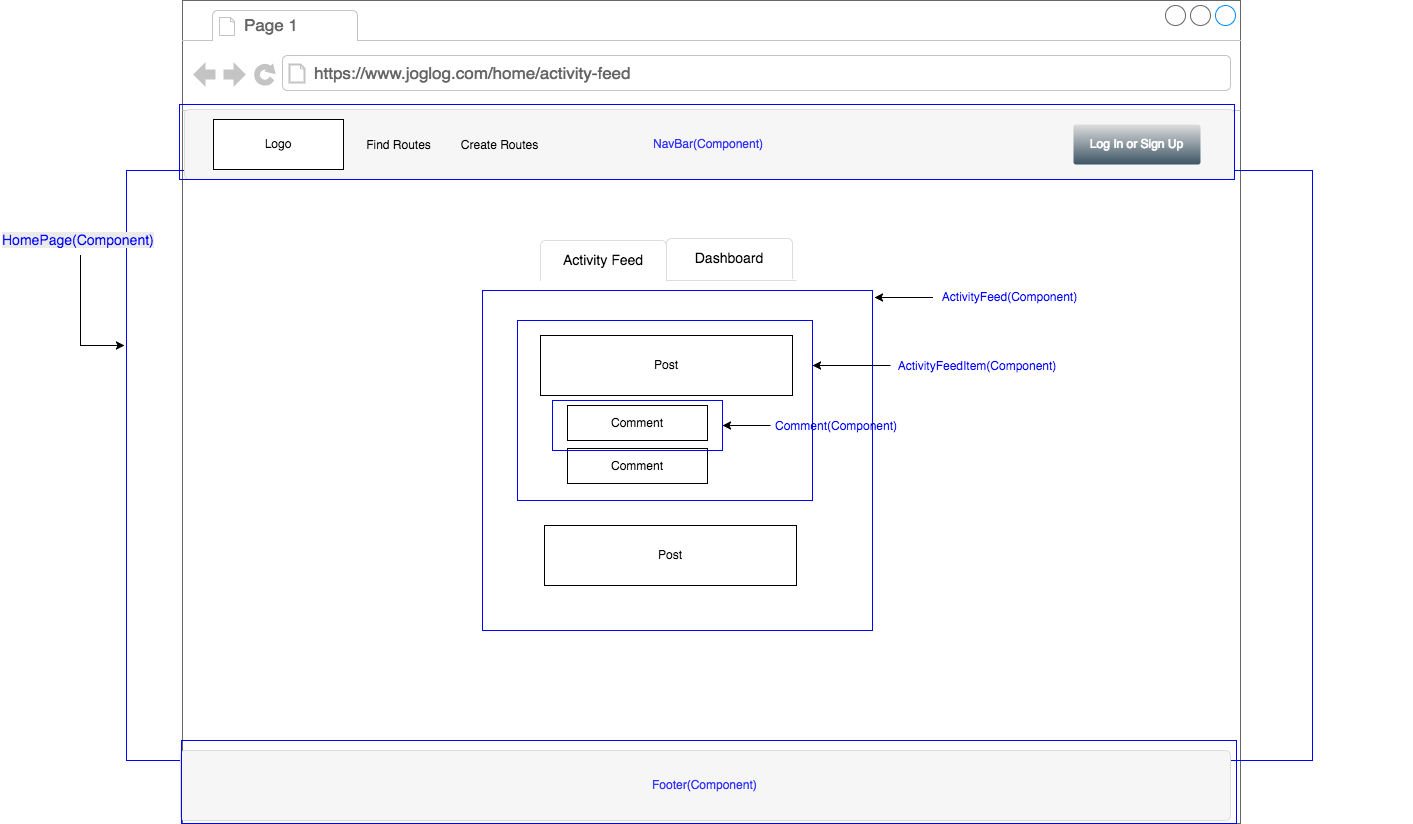
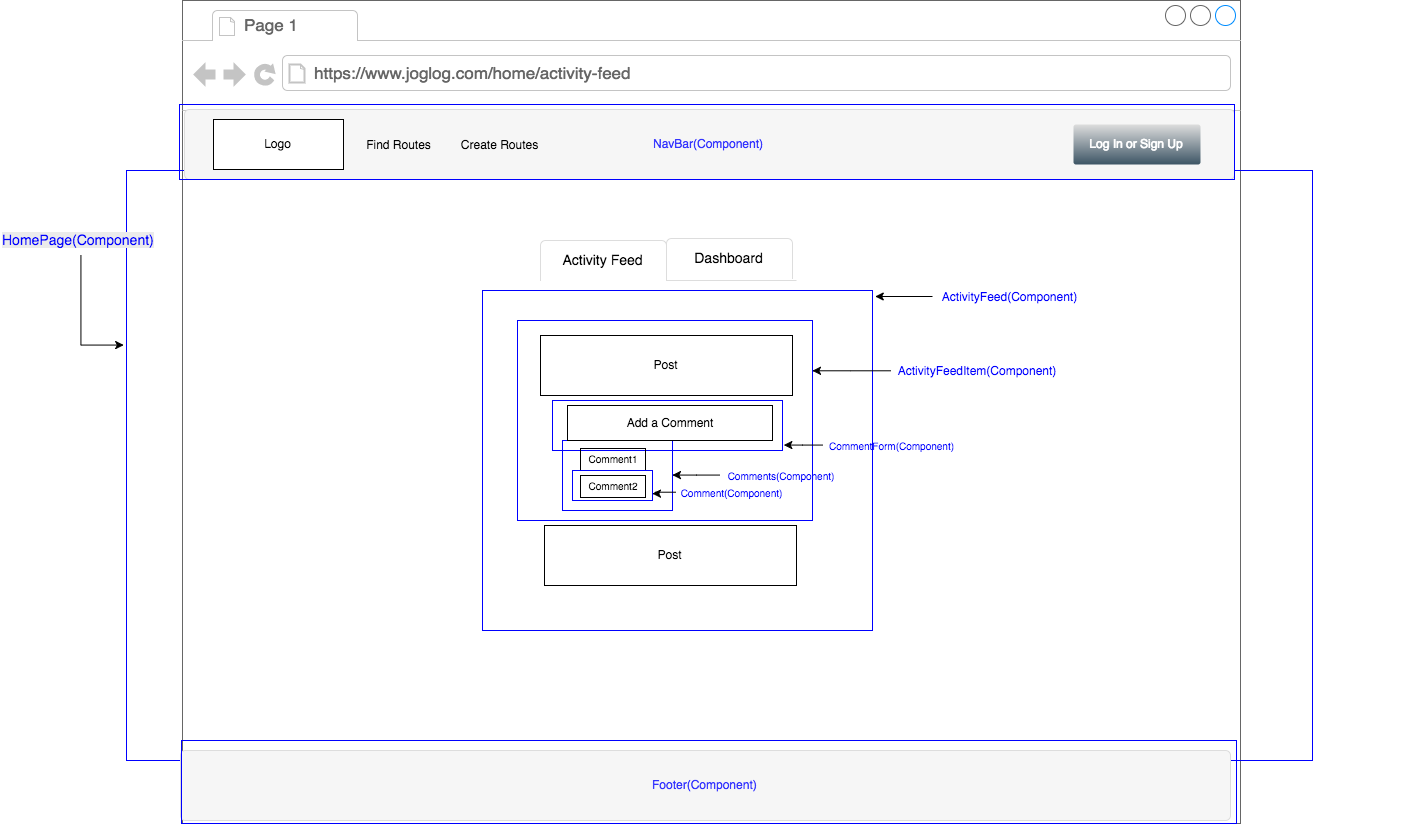
Fix wireframes and API Endpoints for comments

diff --git a/docs/component_hierarchy.md b/docs/component_hierarchy.md
@@ -21,7 +21,12 @@
 **ActivityFeedContainer**
 + ActivityFeed
     + ActivityFeedItem
-        + Comment
+        + CommentContainer
+
+**CommentContainer**
++ CommentForm
++ Comments
+    + Comment
 
 **DashboardContainer**
 + Dashboard
@@ -59,6 +64,7 @@
 + RouteDetail
     + RouteStats
     + Map
++ CommentContainer
 
 ## Routes
 

diff --git a/docs/api_endpoints.md b/docs/api_endpoints.md
@@ -30,6 +30,5 @@
 
 ### Comments
 - `POST /api/comments`
-- `GET /api/comments/:id`
 - `PATCH /api/comments/:id`
 - `DELETE /api/comments/:id`
